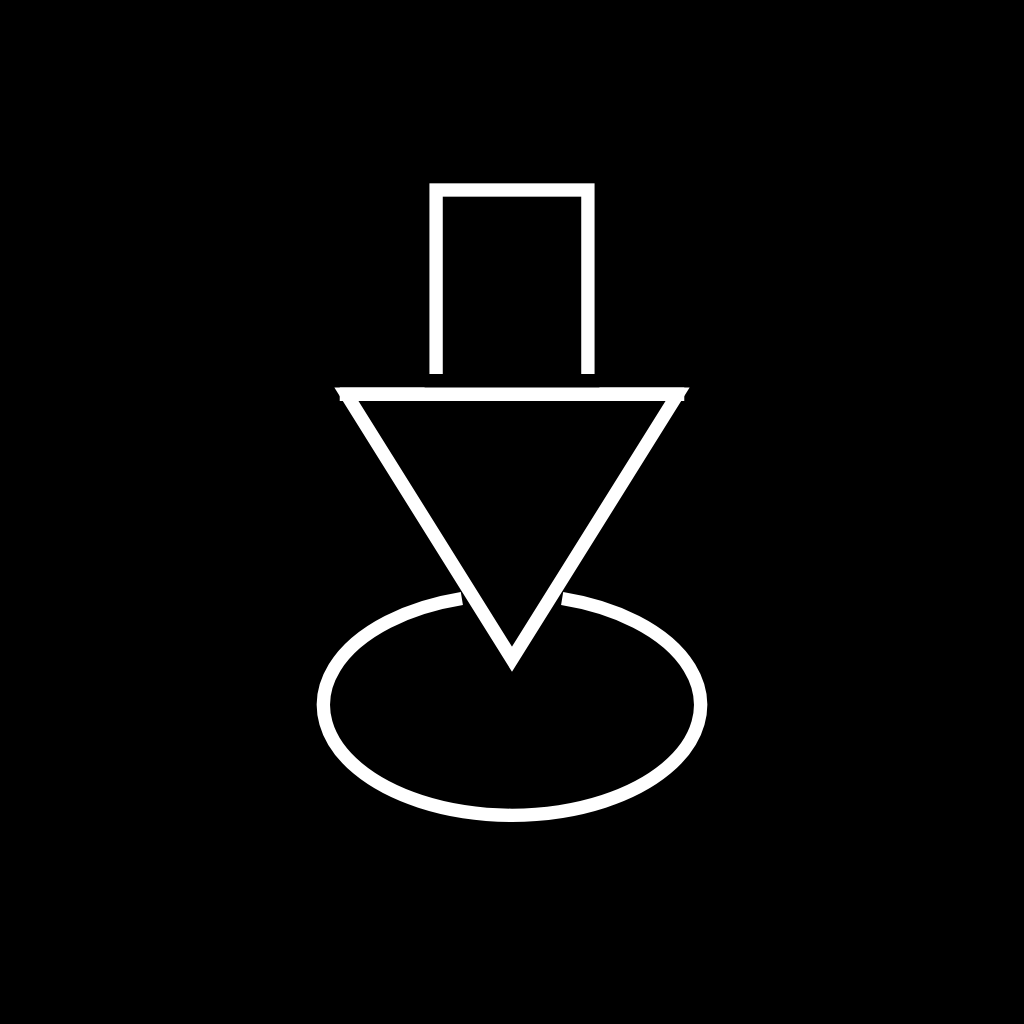
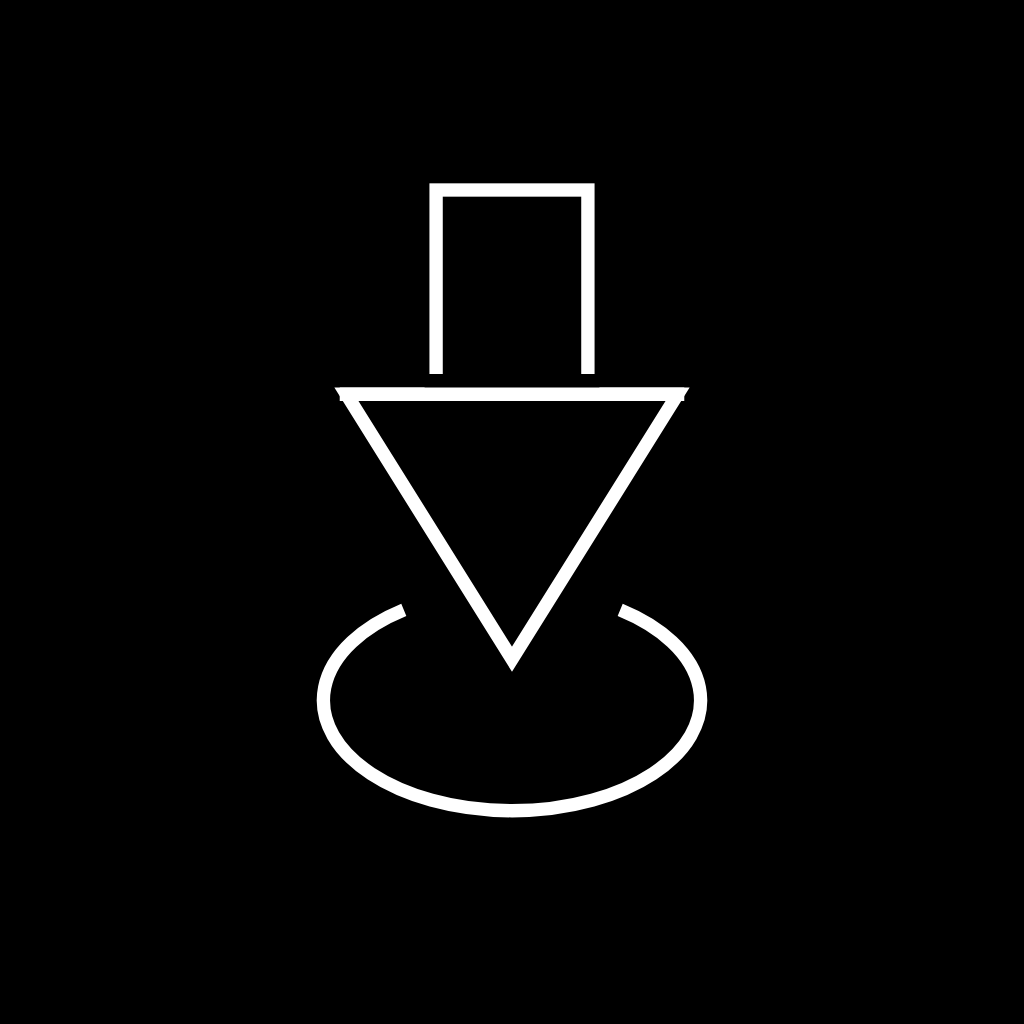
원·삼각 겹침 절단 각 확대와 아이콘 동기화
스트로크 번짐을 없애고 앱 아이콘 SVG를 맞춘다.

diff --git a/components/DomaMark.tsx b/components/DomaMark.tsx
@@ -25,12 +25,11 @@ export function DomaMark({
 
   /**
    * 타원 cx=24 cy=56.5 rx=20.5 ry=12
-   * 삼각 변과 교차 ≈ (-103°, -77°). 여유 두고 상단 호를 더 넓게 제거.
-   * 왼쪽 (18.6, 45.35) → 시계방향 큰 호 → 오른쪽 (29.4, 45.35)
-   * (= 하단·측면만 그림, 겹침 상단 스트로크 없음)
+   * 교차 ≈ (-103°, -77°)보다 넓게 끊음 — 스트로크 두께가
+   * 삼각 안으로 번지지 않게 (-125° ~ -55°).
    */
   const ellipseOpen =
-    "M18.55 45.4 A20.5 12 0 1 0 29.45 45.4";
+    "M12.24 46.64 A20.5 12 0 1 0 35.76 46.64";
 
   return (
     <svg
